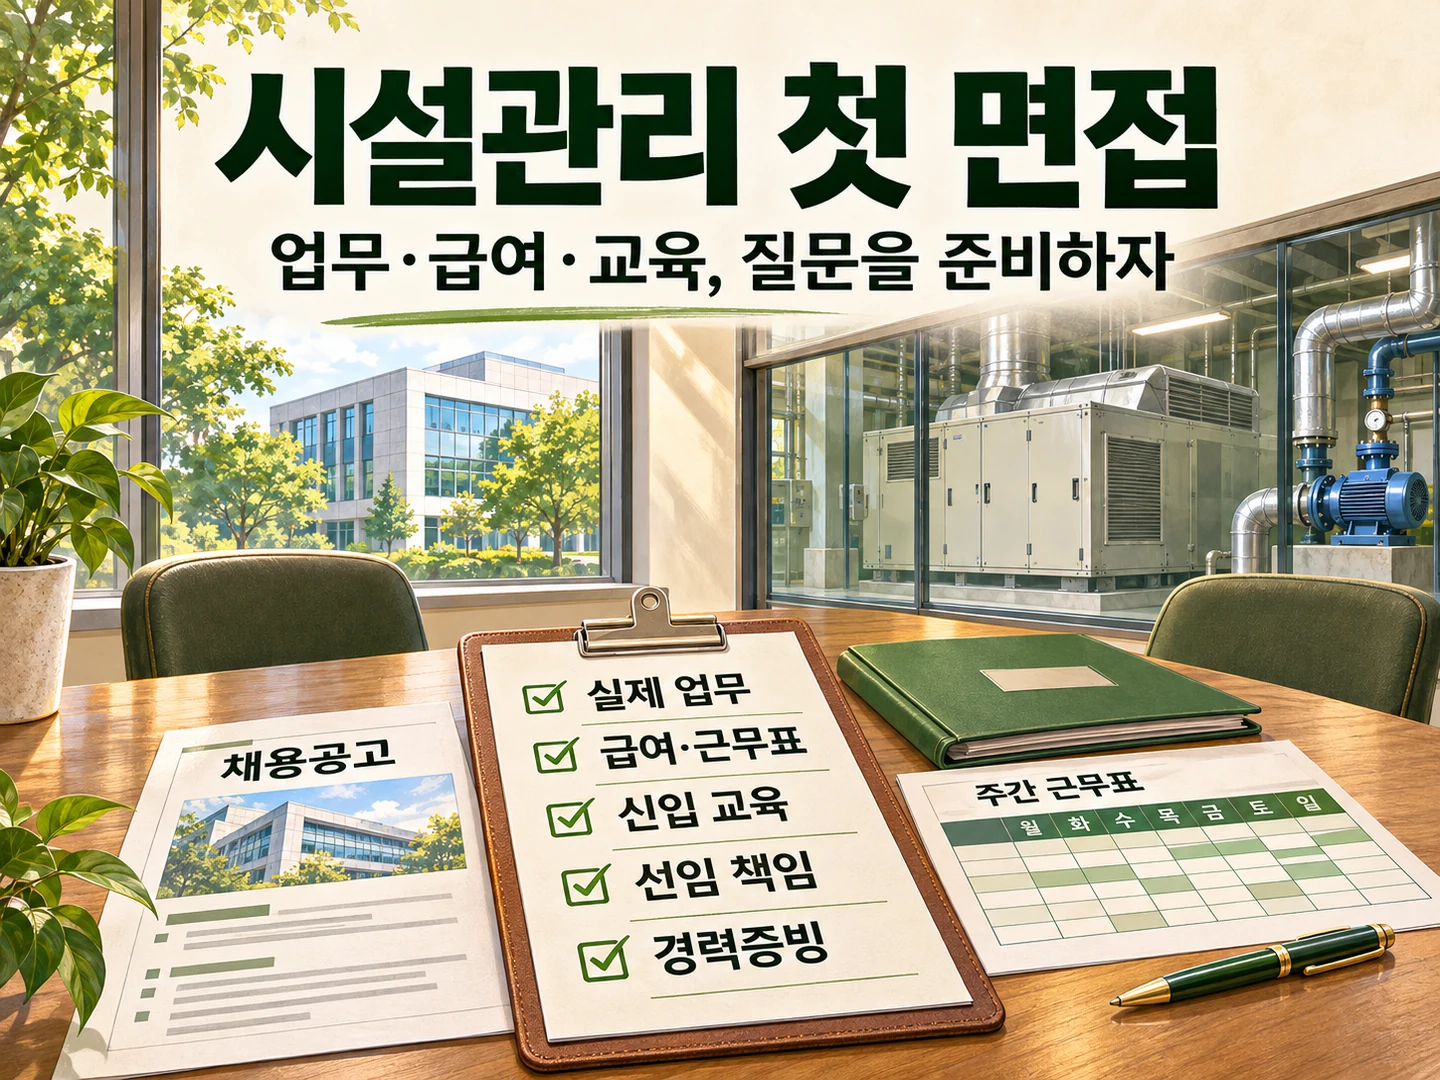
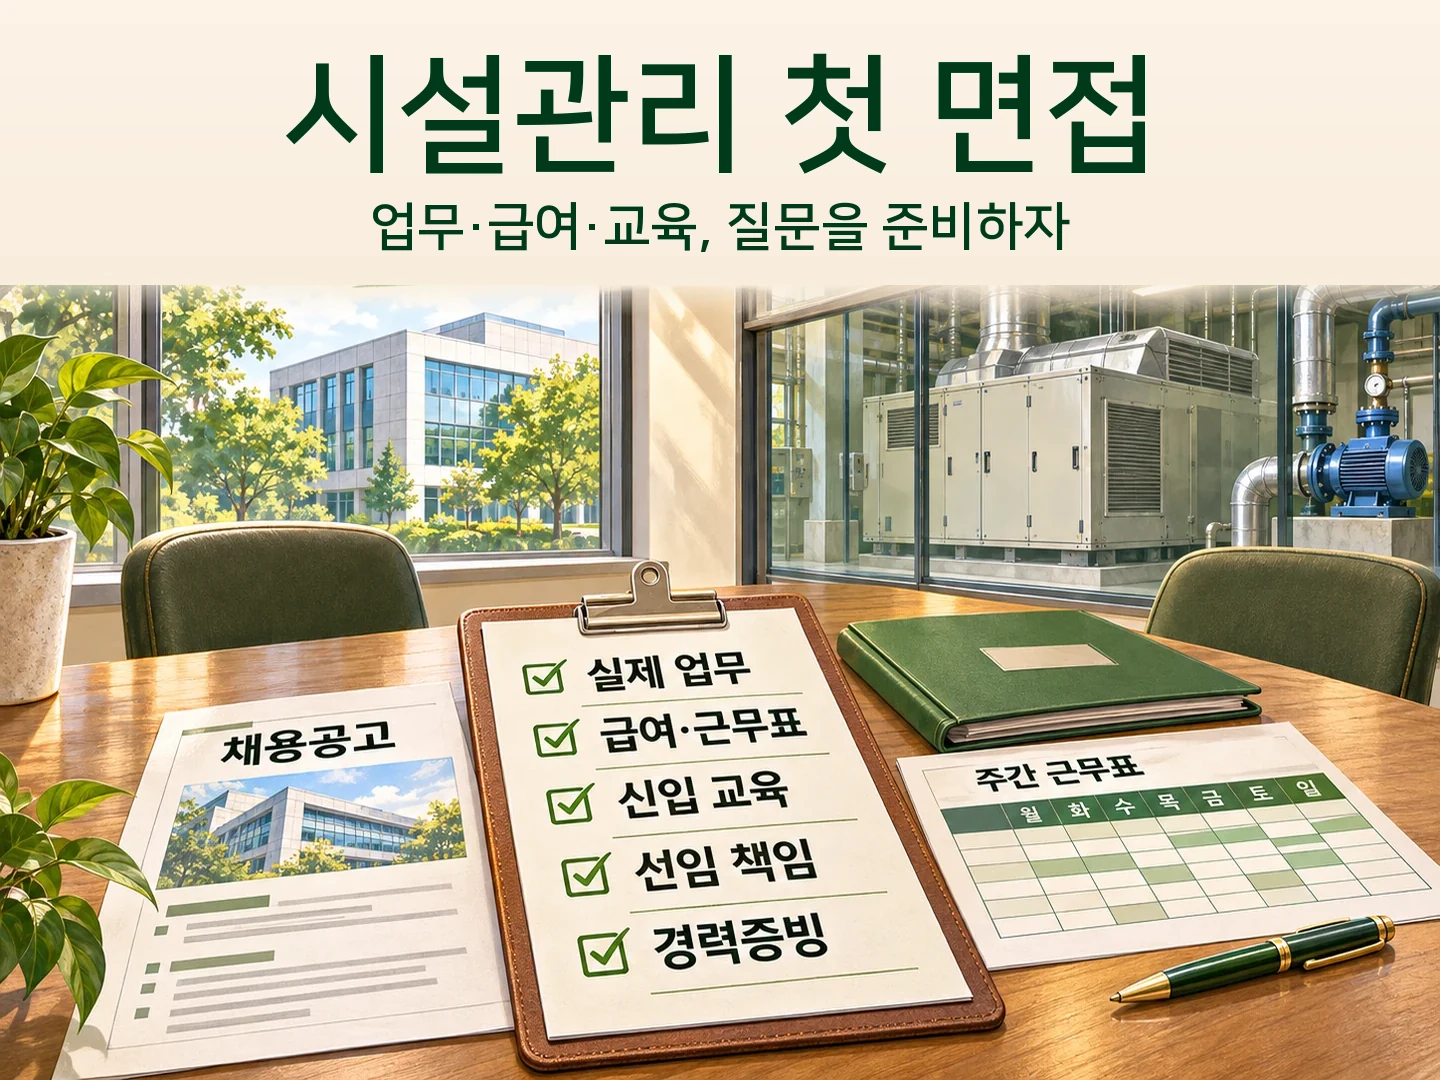
style(facility): normalize remaining hero title blocks

diff --git a/docs/audits/2026-11-10-facility-hero-title-normalization-phase2/README.md b/docs/audits/2026-11-10-facility-hero-title-normalization-phase2/README.md
@@ -1,0 +1,44 @@
+# 시설 대표 이미지 타이틀·부제 정렬 2차 통일
+
+기준일: 2026-11-10
+
+## 목적
+
+1차에서 편차가 큰 6장을 정리한 뒤 남은 미세 조정 대상 02·04·05·07·09·12의 상단 타이포를 §5.13.11 정본에 맞춘다.
+
+## 대상
+
+- 02 `first-job`
+- 04 `shifts-and-pay`
+- 05 `public-sector-comparison`
+- 07 `postal-facilities`
+- 09 `kamcofmc`
+- 12 `mechanical-career-records`
+
+공개 URL·본문·alt·이미지 경로는 유지한다.
+
+## 적용 규격
+
+- 캔버스 1440×1080, 4:3
+- 타이틀 중앙 정렬, y≈50~178px
+- 부제 중앙 정렬, y≈197~257px
+- 타이틀 → 부제 2단계 정보 위계
+- 캡슐형 부제·세 번째 설명문·장식형 구분선 제거
+- 아이보리/크림 상단 배경, 외곽 프레임 없음
+- 기존 건물·설비·서류·체크리스트 등 본문 시각 요소는 유지
+
+## 파일 처리
+
+02·04·07·09·12는 기존 bulk hero 공개 WebP와 PNG 검수 마스터를 교체한다.
+05 공공부문 대표 이미지는 2026-11-05 역사 manifest와 기존 v2 파생본을 보존하기 위해 새 `facility-image-refresh/05/01-public-sector-hero-v3.webp` 및 별도 master를 override로 추가한다.
+
+PNG 검수 마스터는 공개 WebP와 동일한 1440×1080 화면을 확인하기 위한 무손실 indexed PNG로 저장한다.
+
+## 검증
+
+1. 새 WebP/PNG SHA-256과 manifest 일치
+2. 6장 모두 1440×1080
+3. 기존 역사 공공부문 파생본 보존
+4. bulk visual / pictogram / card-spacing 보호 검사
+5. Facility publication QA / SEO
+6. PR diff에서 승인 대상 외 제품 이미지 변경 없음
